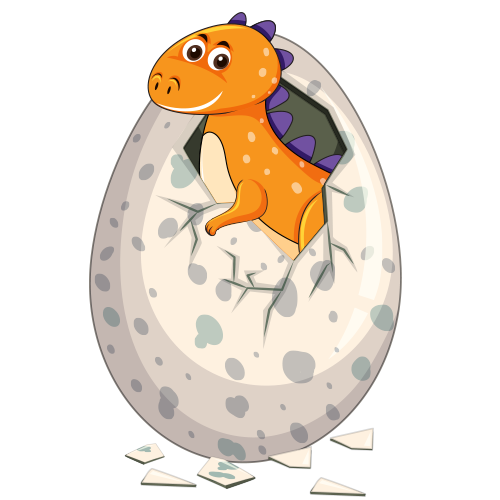
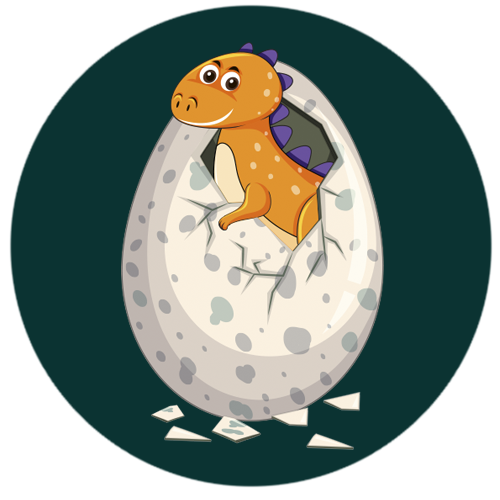
Images in Public added. Elapsed time avaialable in profile route.

diff --git a/routes/game.js b/routes/game.js
@@ -3,16 +3,22 @@ const router = express.Router();
 
 const Action = require("../models/action");
 const Task = require("../models/task");
+const User = require("../models/user");
 
 //Route Profile/Dashboard GET
 
 router.get("/profile", function (req, res, next) {
   const user = req.session.currentUser
-  /*let today = new Date()
+  console.log(user)
+  
+  let today = new Date()
+  console.log(today)
   // console.log(user._id)
-  let userCreation = user.timestamps.createdAt;
-  let daysPassed = Math.floor((today - userCreation/31557600000));*/
-  res.render("profile", {user: user});
+  let userCreation = new Date(user.created_at);
+  console.log(userCreation.getTime(), "here")
+  let daysPassed = Math.floor((today - userCreation)/31557600000);
+  console.log(daysPassed)
+  res.render("profile", {user: user, daysPassed: daysPassed});
 });
 
 // Route Actions GET / POST (action completed, update of user)

diff --git a/models/user.js b/models/user.js
@@ -1,6 +1,6 @@
 const mongoose = require("mongoose");
 const Schema = mongoose.Schema;
-
+const Action = require("../models/action");
 const userSchema = new Schema(
   {
     name: { type: String, required: true },
@@ -19,13 +19,8 @@ const userSchema = new Schema(
     },
 
     experience: { type: Number, default: 0 },
-<<<<<<< HEAD
-     actions: [{type: Schema.Types.ObjectId, ref: "Action"}],
-    tasks: [ {type: Schema.Types.ObjectId, ref: "Task"}],
-=======
-    // actions: [{type: Schema.Types.ObjectId, ref: "Action", default: }],
+    actions: [{type: Schema.Types.ObjectId, ref: "Action"}]
     // tasks: [ {type: Schema.Types.ObjectId, ref: "Task"}],
->>>>>>> intermedia
   },
   { 
       timestamps: {

diff --git a/bin/seeds.js b/bin/seeds.js
@@ -25,7 +25,7 @@ const actions = [
         title: "Start recycling" ,
         description: "A first big cornerstone for you to become a bit greener is to start recycling. For sure, you heard about that! But be aware, each country and even each city has its own way of recycling. Check the colours of the bins not to mess it!",
         tasks: [],
-        icon: "/images/bin.png",
+        icon: "/images/recycle.png",
         ref: 2,
         dino: {
             name: "Pato the Allo",

diff --git a/models/action.js b/models/action.js
@@ -7,7 +7,6 @@ const actionSchema = new Schema(
     isCompleted: {type : Boolean, default: false},
     experience: { type: Number, default: 20 },
     description: String,
-    // I added the icon 
     icon: String,
     tasks: [ {type: Schema.Types.ObjectId, ref: "Task"}],
     dino: {

diff --git a/routes/index.js b/routes/index.js
@@ -48,7 +48,8 @@ router.post("/signup", async (req, res, next) => {
       email,
       password: hashPass,
       name,
-    });
+    })
+
     res.redirect("/login");
   } catch (error) {
     next(error);
